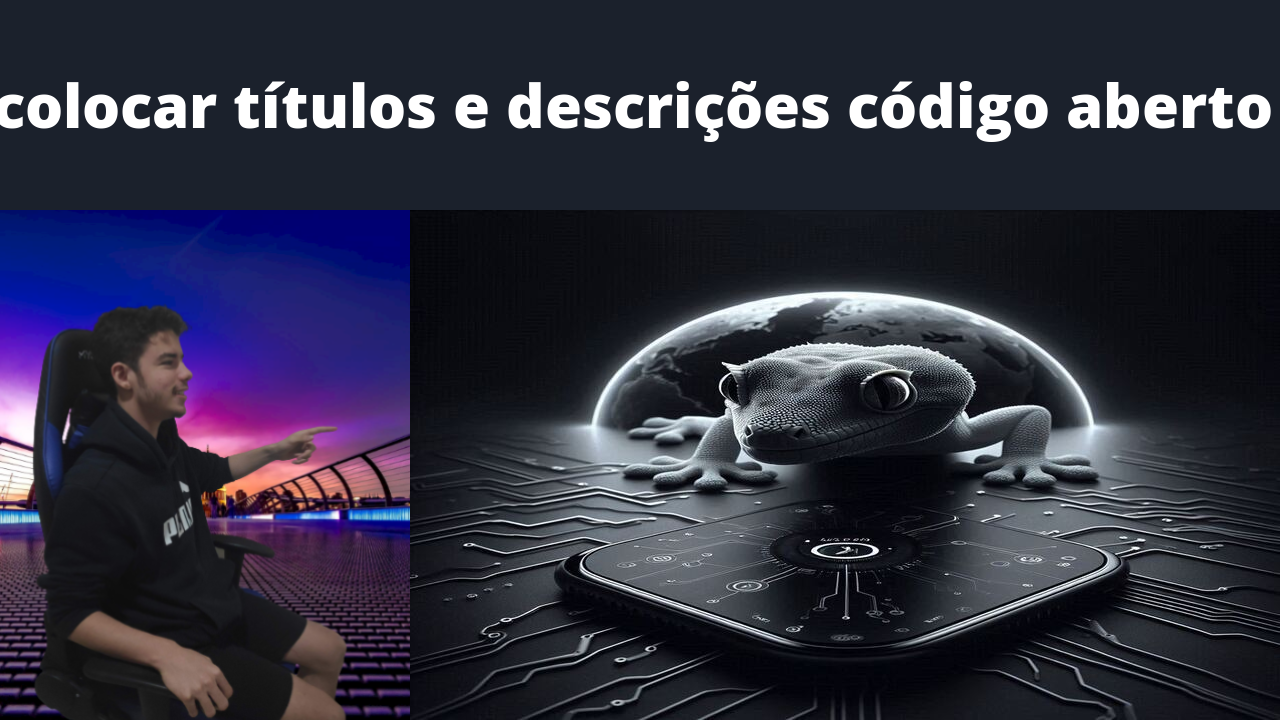
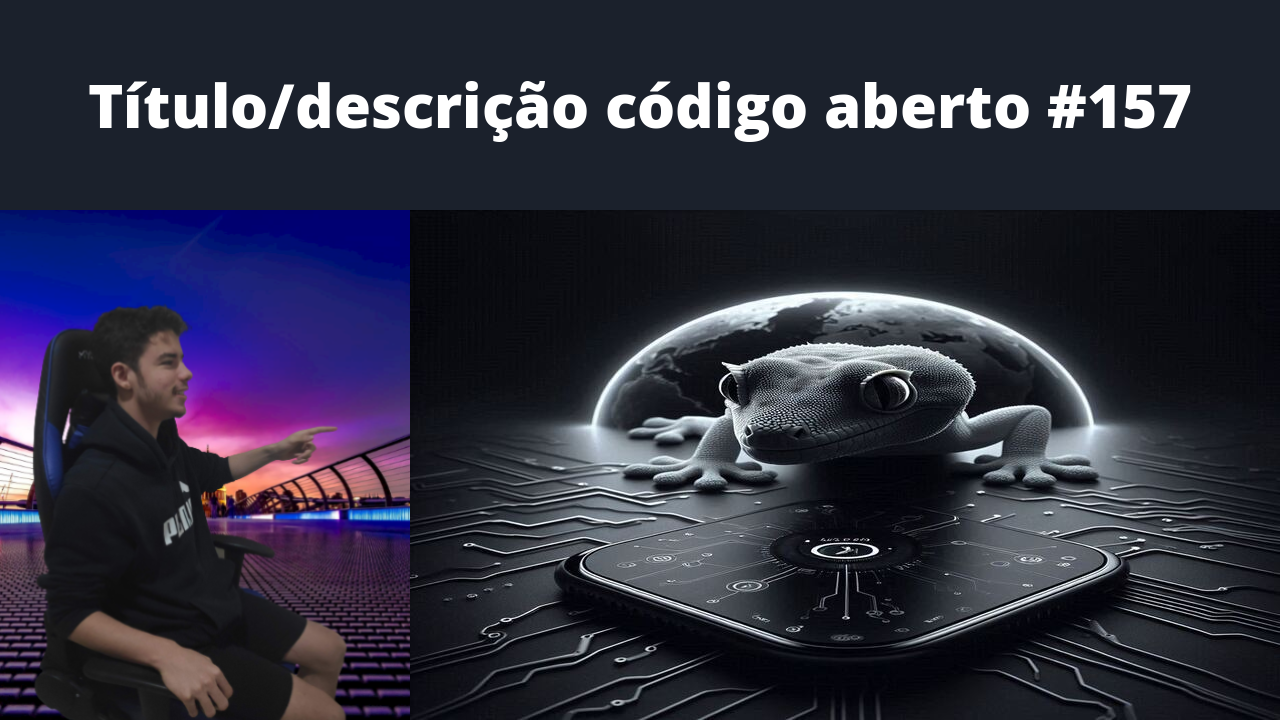
chore: add title chore: update thumbs with trouble

Changed region(s): [[0.0, 0.0917, 1.0, 0.2139]]

diff --git a/out/titles/thumbGen.md b/out/titles/thumbGen.md
@@ -328,5 +328,7 @@
 [video](https://youtu.be/XPB1a4aeSk0)
 ## Apanhando para as cotas #165
 [video](https://youtu.be/qDxVh9546mA)
-## Corrigir rodar costomizado #166
+## Corrigir rodar customizado #166
 [video](https://youtu.be/A37OPsfzLzc)
+## Rodar série principal #167
+[video](https://youtu.be/oBOdl_OTpFE)
